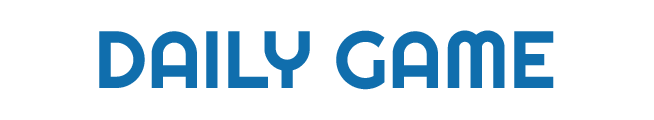
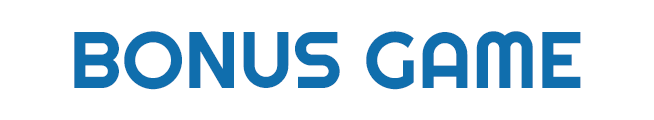
change

Changed region(s): [[0.0917, 0.25, 0.8869, 0.75]]

diff --git a/quiz_app/www/js/phaser/register.js b/quiz_app/www/js/phaser/register.js
@@ -23,14 +23,14 @@ class RegisterScreen extends Phaser.Scene{
 
     create() {
         // Create button
-        var button = this.add.image(540,400,'EmptyUser').setOrigin(0.5,0.5);
+        var button = this.add.image(540,300,'EmptyUser').setOrigin(0.5,0.5);
         // Create canvas   
-        var canvas = this.add.rexCanvas(540, 400, 300, 300).setOrigin(0.5,0.5);
+        var canvas = this.add.rexCanvas(540, 300, 300, 300).setOrigin(0.5,0.5);
         canvas.fitTo = (function (parent) {
             var newSize = FitTo(this, parent, true);
             this.setDisplaySize(newSize.width, newSize.height);
         }).bind(canvas)
-        this.userAvatar_cover = this.add.image(540,400,'avatar_cover').setDepth(5);
+        this.userAvatar_cover = this.add.image(540,300,'avatar_cover').setDepth(5);
 
         var self = this;
         // Create a transparent file chooser
@@ -61,8 +61,8 @@ class RegisterScreen extends Phaser.Scene{
                 });
         });
         
-        this.userNameImage = this.add.image(540,700,'InputBack');
-        this.userName = this.add.rexInputText(540, 700, 620, 70, 
+        this.userNameImage = this.add.image(540,600,'InputBack');
+        this.userName = this.add.rexInputText(540, 600, 620, 70, 
             {
                 text:'',
                 type:'text',
@@ -72,7 +72,7 @@ class RegisterScreen extends Phaser.Scene{
             })
         .setOrigin(0.5,0.5);
 
-        this.userNameText = this.add.text(210, 635, 'Username', { fixedWidth: 200, fixedHeight: 32 })
+        this.userNameText = this.add.text(210, 535, 'Username', { fixedWidth: 200, fixedHeight: 32 })
         .setStyle({
             fontSize: '28px',
             fontFamily: 'RR',
@@ -81,8 +81,8 @@ class RegisterScreen extends Phaser.Scene{
         })
         .setOrigin(0,0.5);
 
-        this.emailImage = this.add.image(540,850,'InputBack');
-        this.email = this.add.rexInputText(540, 850, 620, 70, 
+        this.emailImage = this.add.image(540,750,'InputBack');
+        this.email = this.add.rexInputText(540, 750, 620, 70, 
         {
             text:'',
             type:'text',
@@ -91,7 +91,7 @@ class RegisterScreen extends Phaser.Scene{
             color: '#000000',
         })
         .setOrigin(0.5,0.5);
-        this.emailText = this.add.text(210, 785, 'Email', { fixedWidth: 200, fixedHeight: 32 })
+        this.emailText = this.add.text(210, 685, 'Email', { fixedWidth: 200, fixedHeight: 32 })
         .setStyle({
             fontSize: '28px',
             fontFamily: 'RR',
@@ -100,8 +100,8 @@ class RegisterScreen extends Phaser.Scene{
         })
         .setOrigin(0,0.5);
 
-        this.passwordImage = this.add.image(540,1000,'InputBack');
-        this.password = this.add.rexInputText(540, 1000, 620, 70, 
+        this.passwordImage = this.add.image(540,900,'InputBack');
+        this.password = this.add.rexInputText(540, 900, 620, 70, 
             {
                 text:'',
                 type:'text',
@@ -110,7 +110,7 @@ class RegisterScreen extends Phaser.Scene{
                 color: '#000000',
             })
         .setOrigin(0.5,0.5);
-        this.passwordText = this.add.text(210, 935, 'Password', { fixedWidth: 200, fixedHeight: 32 })
+        this.passwordText = this.add.text(210, 835, 'Password', { fixedWidth: 200, fixedHeight: 32 })
         .setStyle({
             fontSize: '28px',
             fontFamily: 'RR',
@@ -119,12 +119,22 @@ class RegisterScreen extends Phaser.Scene{
         })
         .setOrigin(0,0.5);
 
-        this.registerButton = this.add.image(540,1200,'SignUp1');
+        this.registerButton = this.add.image(540,1300,'SignUp1');
         this.registerButton.setInteractive().on('pointerdown', () => {
             Client.register(this.userName.text, this.email.text, this.password.text, this.avatar);
         });
 
-        this.loginText = this.add.text(540, 1500, 'Login Now', { fixedWidth: 500, fixedHeight: 120 })
+        this.privacyText = this.add.text(540, 1100, 'When you become a member, you are\ndeemed to have accepted the "Privacy\nPolicy" and "Terms and Conditions."\nAnd we have to make link for "Privacy\nPolicy" and "Terms and Conditions."', { fixedWidth: 800, fixedHeight: 300 })
+        .setStyle({
+            fontSize: '36px',
+            fontFamily: 'RR',
+            fontWeight: 'bold',
+            align: "center",
+            fill: '#000000',
+        })
+        .setOrigin(0.5,0.5);
+
+        this.loginText = this.add.text(540, 1540, 'Login Now', { fixedWidth: 500, fixedHeight: 120 })
         .setStyle({
             fontSize: '84px',
             fontFamily: 'RR',

diff --git a/quiz_app/www/js/phaser/rank.js b/quiz_app/www/js/phaser/rank.js
@@ -72,7 +72,8 @@ class RankScreen extends Phaser.Scene{
                 fontWeight: 'bold',
                 fontSize: '32px',
                 color: "#ffffff",
-                aligh: "center"
+                aligh: "center",
+                fixedWidth: 280
             }).setOrigin(0.5, 0.5);
         }
 
@@ -103,7 +104,8 @@ class RankScreen extends Phaser.Scene{
                 fontWeight: 'bold',
                 fontSize: '28px',
                 color: "#ffffff",
-                aligh: "center"
+                aligh: "center",
+                fixedWidth: 210
             }).setOrigin(0.5, 0.5);
         }
 
@@ -134,7 +136,8 @@ class RankScreen extends Phaser.Scene{
                 fontWeight: 'bold',
                 fontSize: '28px',
                 color: "#ffffff",
-                aligh: "center"
+                aligh: "center",
+                fixedWidth: 210
             }).setOrigin(0.5, 0.5);
         }
 

diff --git a/quiz_app/www/js/phaser/end.js b/quiz_app/www/js/phaser/end.js
@@ -157,7 +157,7 @@ class EndScreen extends Phaser.Scene{
                     if(game_type == "stage")
                         showText = 'YOU FINISHED STAGE';
                     else if(game_type == "daily")
-                        showText = 'YOU FINISHED DAILY GAME';
+                        showText = 'YOU FINISHED BONUS GAME';
                     else if(game_type == "passion")
                         showText = 'YOU EARN COIN';
                     this.win = this.add.image(540,400,'Win');

diff --git a/quiz_app/www/js/socket/daily.js b/quiz_app/www/js/socket/daily.js
@@ -22,6 +22,6 @@ Client.socket.on('daily_start',function(data){
     }
     else
     {
-        toast_error(activeScene, 'CAN NOT PLAY\nDAILY GAME!');
+        toast_error(activeScene, 'CAN NOT PLAY\nBONUS GAME!');
     }
 });
